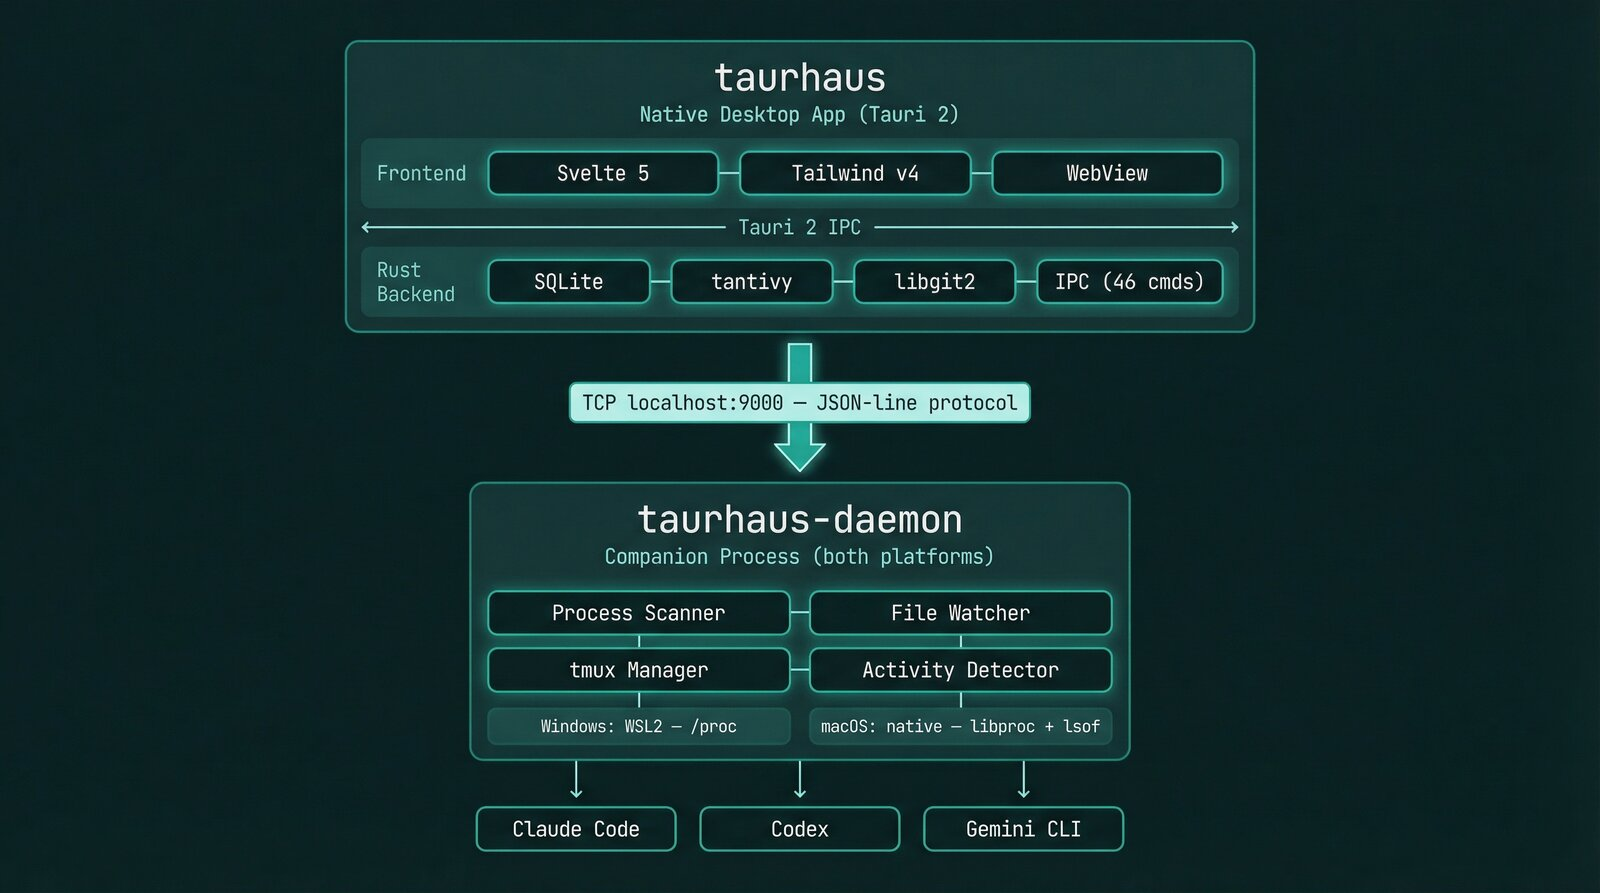
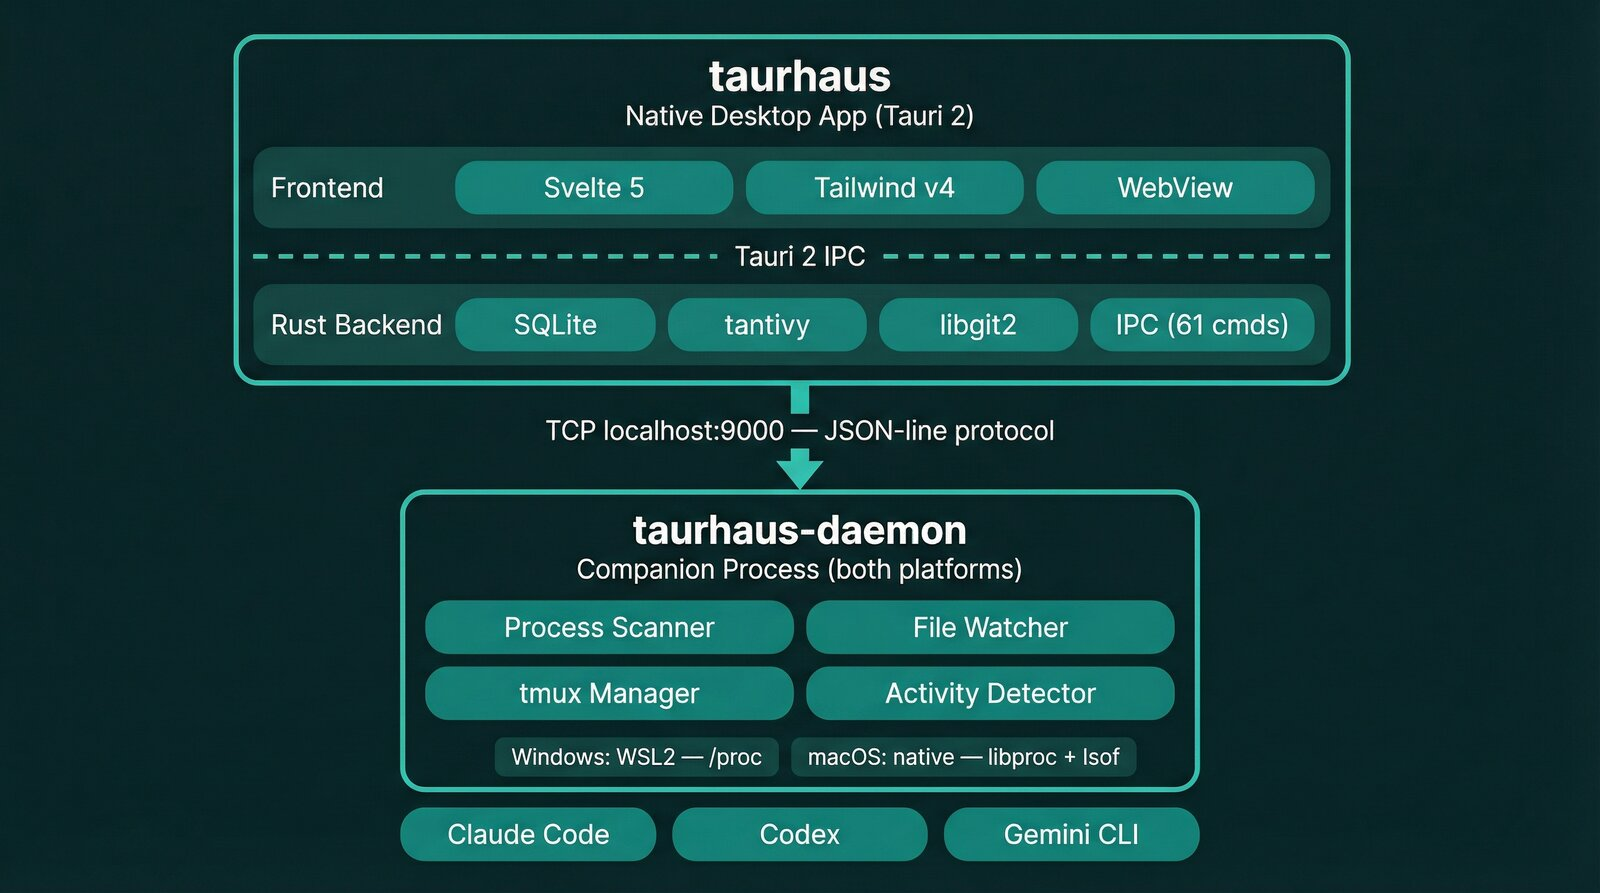
docs: add teal-themed infographics for architecture and feature docs
Replace outdated system architecture diagram (IPC count 46→61) and add
6 new infographics: startup sequence, data flow, daemon protocol,
session detection pipeline, shell layout, and task aggregation pipeline.
All generated with Nano Banana Pro using the app's teal color palette,
resized to 1600px wide for optimal quality/size balance.

Changed region(s): [[0.125, 0.0302, 0.8438, 0.9675]]

diff --git a/docs/ui/layout-and-navigation.md b/docs/ui/layout-and-navigation.md
@@ -10,23 +10,7 @@ The application window is a custom-decorated dark teal frame containing floating
 
 The entire window is a dark teal frame (`bg-brand-950`) containing floating panels. No OS window decorations — the titlebar is part of the UI.
 
-```
-┌──────────────────────────────────────────────────────────┐
-│  TITLEBAR (46px)                                         │
-│  [Logo area]  [Tab pills]          [Theme] [─ □ ✕]      │
-├──────────┬───────────────────────────────────────────────┤
-│          │                                               │
-│ SIDEBAR  │  MAIN CONTENT PANEL                           │
-│ (252px)  │                                               │
-│          │  Content for the active tab                   │
-│          │                                               │
-│          │                                               │
-│          │                                               │
-│          │                                               │
-└──────────┴───────────────────────────────────────────────┘
-     6px gap between sidebar and main panel
-     6px frame padding around everything
-```
+![Shell Layout](../shell-layout.jpg)
 
 ### Titlebar (46px)
 

diff --git a/docs/architecture/daemon-protocol.md b/docs/architecture/daemon-protocol.md
@@ -2,6 +2,8 @@
 
 The daemon is a companion process that handles filesystem access, process scanning, and tmux session management. It communicates with the Tauri app over a TCP connection using a JSON-line (NDJSON) protocol.
 
+![Daemon Protocol](../daemon-protocol.jpg)
+
 ## Why a daemon
 
 The app and the daemon exist as separate processes because of platform boundaries:

diff --git a/docs/features/session-management.md b/docs/features/session-management.md
@@ -25,6 +25,8 @@ Each tool has:
 
 ## Session detection pipeline
 
+![Session Detection Pipeline](../session-detection.jpg)
+
 Detection sequence:
 1. Scan processes (`ps -eo pid,args`) and detect known tool command signatures.
 2. Enrich each process with CWD and TTY via platform APIs.

diff --git a/docs/features/task-board.md b/docs/features/task-board.md
@@ -13,6 +13,8 @@ Frontend layout (`TaskBoard.svelte`) has two sub-tabs:
 
 ## Task sources
 
+![Task Aggregation Pipeline](../task-aggregation.jpg)
+
 Each CLI tool uses a different source format, and the scanner unifies them.
 
 ### Claude Code
